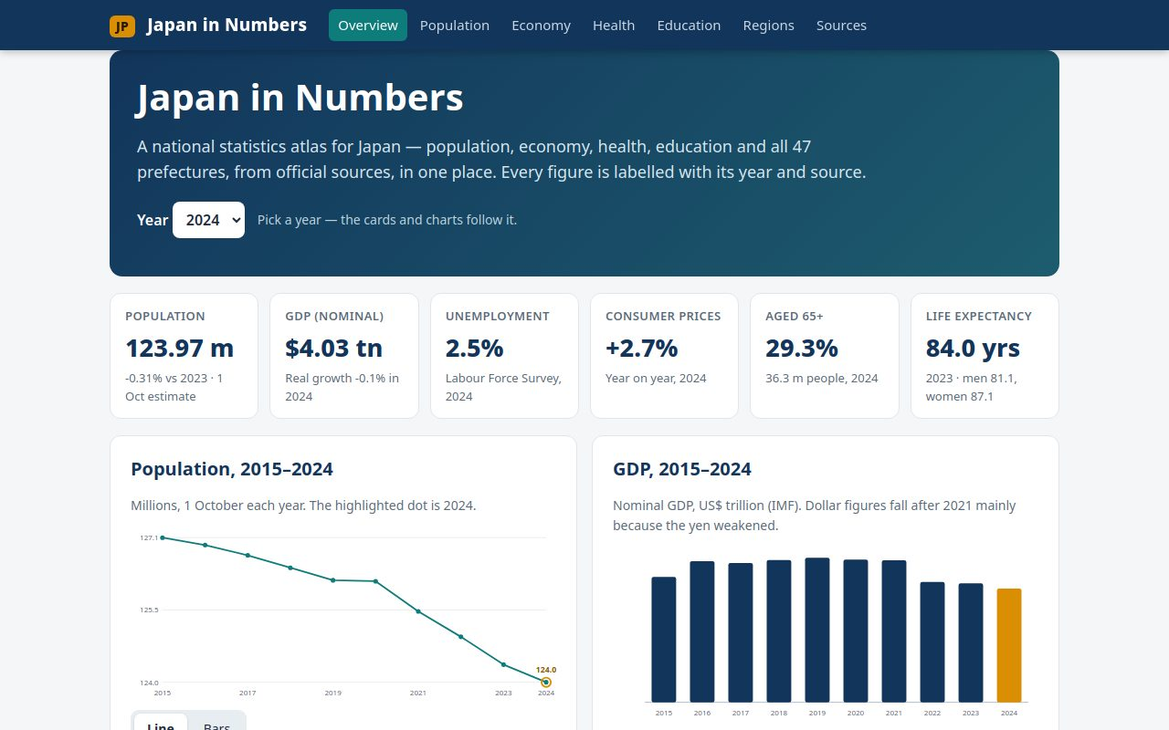
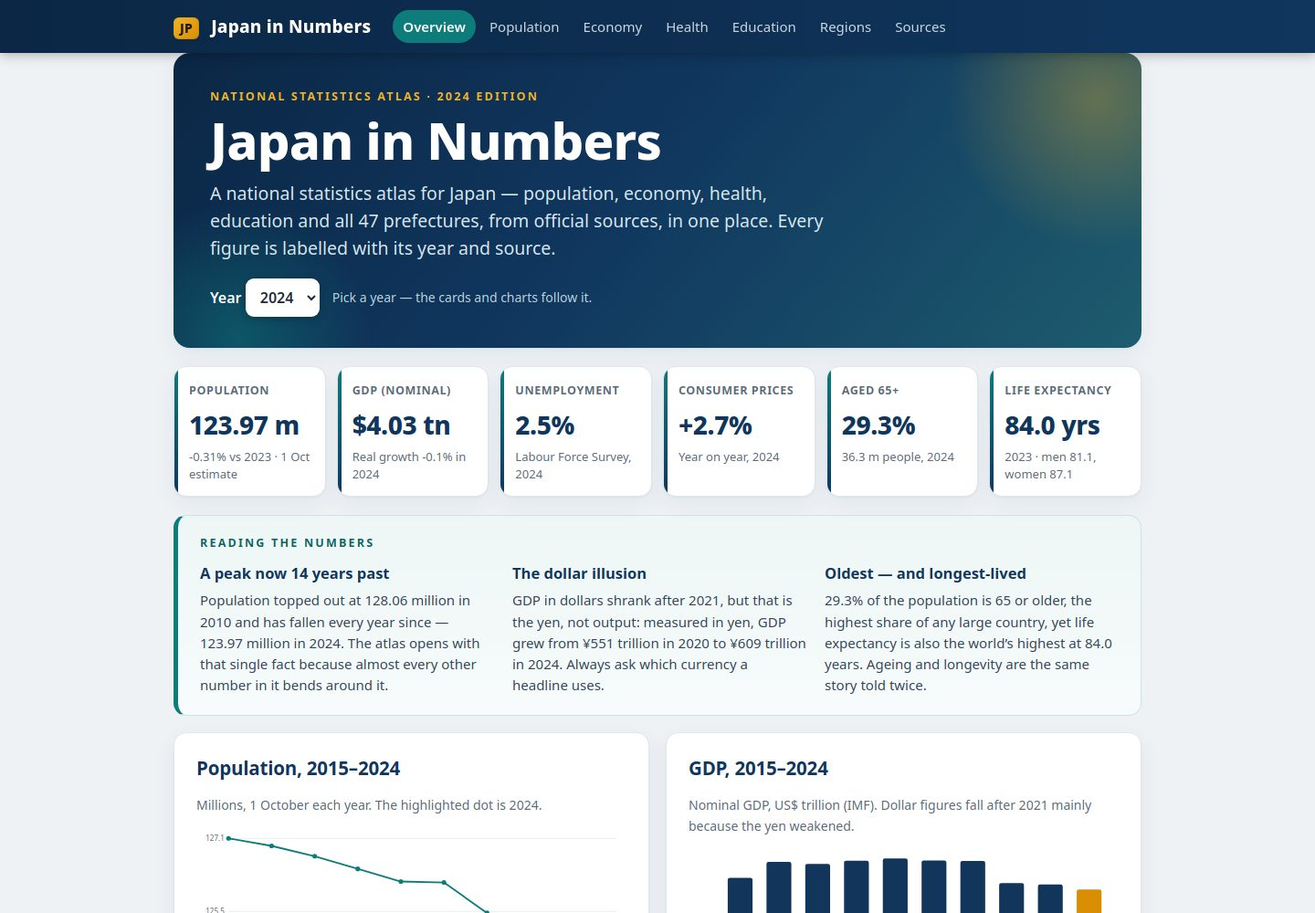
v2: design system refresh (hero, typography, KPI cards) and 'Reading the numbers' insight blocks on every stats page; screenshots retaken

diff --git a/app/views.js b/app/views.js
@@ -6,6 +6,14 @@ const esc = (s) => String(s).replace(/[&<>"]/g, (c) => `&#${c.charCodeAt(0)};`);
 const at = (arr, y) => arr.find((d) => d.y === y);
 const fmt = (n, d = 2) => n.toLocaleString('en-US', { minimumFractionDigits: d, maximumFractionDigits: d });
 
+// The "reading the numbers" block: every chart page pairs its figures with a
+// short commentary, so a visitor leaves knowing what the data means, not just
+// what it says. Items are {h: headline, p: text}; every number in them comes
+// from the same tables the page charts.
+export function insightBox(items) {
+  return `<section class="insight"><span class="kicker">Reading the numbers</span><div class="insight-cols">${items.map((i) => `<div class="insight-item"><h3>${esc(i.h)}</h3><p>${i.p}</p></div>`).join('')}</div></section>`;
+}
+
 export function kpiCards(year) {
   const pop = at(POPULATION, year), gdp = at(GDP_NOMINAL, year);
   const un = at(UNEMPLOYMENT, year), cpi = at(CPI, year);
@@ -29,10 +37,15 @@ export function yearPicker(year) {
 export function overview(s) {
   const top = [...PREFECTURES].sort((a, b) => b.pop - a.pop).slice(0, 8);
   const rows = top.map((p, i) => `<tr><td>${i + 1}</td><td><a href="#/regions?pref=${encodeURIComponent(p.name)}">${esc(p.name)}</a></td><td class="num">${fmt(p.pop)}</td><td class="num">${Math.round(p.pop / p.area * 1000).toLocaleString()}</td></tr>`).join('');
-  return `<section class="hero"><h1>Japan in Numbers</h1>
+  return `<section class="hero"><span class="kicker">National statistics atlas · 2024 edition</span><h1>Japan in Numbers</h1>
   <p class="lede">A national statistics atlas for Japan — population, economy, health, education and all 47 prefectures, from official sources, in one place. Every figure is labelled with its year and source.</p>
   <div class="hero-ctrl">${yearPicker(s.year)}<span class="hint">Pick a year — the cards and charts follow it.</span></div></section>
   ${kpiCards(s.year)}
+  ${insightBox([
+    { h: 'A peak now 14 years past', p: 'Population topped out at 128.06 million in 2010 and has fallen every year since — 123.97 million in 2024. The atlas opens with that single fact because almost every other number in it bends around it.' },
+    { h: 'The dollar illusion', p: 'GDP in dollars shrank after 2021, but that is the yen, not output: measured in yen, GDP grew from ¥551 trillion in 2020 to ¥609 trillion in 2024. Always ask which currency a headline uses.' },
+    { h: 'Oldest — and longest-lived', p: '29.3% of the population is 65 or older, the highest share of any large country, yet life expectancy is also the world\u2019s highest at 84.0 years. Ageing and longevity are the same story told twice.' },
+  ])}
   <section class="grid2">
     <article class="card"><h2>Population, 2015–2024</h2><p class="card-sub">Millions, 1 October each year. The highlighted dot is ${s.year}.</p>
       ${s.chartType === 'bars' ? barChart(POPULATION, { label: 'Population by year', highlightYear: s.year, color: NAVY }) : lineChart(POPULATION, { label: 'Population by year', highlightYear: s.year, decimals: 1 })}
@@ -56,7 +69,7 @@ export function overview(s) {
 
 export function populationPage(s) {
   const rows = POPULATION.map((d) => { const g = at(GDP_REAL_GROWTH, d.y); return `<tr><td>${d.y}</td><td class="num">${fmt(d.v)}</td><td class="num">${d.y > 2015 ? (((d.v - at(POPULATION, d.y - 1).v) / at(POPULATION, d.y - 1).v) * 100).toFixed(2) + '%' : '—'}</td></tr>`; }).join('');
-  return `<h1>Population</h1><p class="lede">123.97 million people on 1 October 2024 — down 3.12 million since 2015. Births (720,000 in 2024) are far below deaths (1.62 million), so the population falls by roughly 900,000 a year.</p>
+  return `<span class="kicker">People</span><h1>Population</h1><p class="lede">123.97 million people on 1 October 2024 — down 3.12 million since 2015. Births (720,000 in 2024) are far below deaths (1.62 million), so the population falls by roughly 900,000 a year.</p>
   <section class="grid2">
     <article class="card"><h2>Population trend, 2015–2024</h2>${lineChart(POPULATION, { label: 'Population trend', highlightYear: s.year, decimals: 1 })}<p class="note">The decline accelerated after 2020: −0.5% a year in 2021–2024, against −0.2% in 2015–2019.</p></article>
     <article class="card"><h2>Age pyramid, 2024</h2><p class="card-sub">Millions in each 5-year band. The bulge at 70–74 is the first baby-boom generation.</p>${pyramid(PYRAMID)}</article>
@@ -65,6 +78,11 @@ export function populationPage(s) {
     <article class="card"><h2>Age groups, 2024</h2>${hbarRows(AGE_GROUPS.map((g) => ({ label: `Aged ${g.label}`, value: g.pct, display: `${g.pct}% · ${g.value} m`, color: g.label === '65+' ? AMBER : TEAL })), { max: 100 })}<p class="note">Working-age people (15–64) support a growing retired population: 1.9 workers per person aged 65+ in 2024, down from 2.3 in 2015.</p></article>
     <article class="card"><h2>Year by year</h2><table class="tbl"><thead><tr><th>Year</th><th class="num">Population (m)</th><th class="num">Change</th></tr></thead><tbody>${rows}</tbody></table></article>
   </section>
+  ${insightBox([
+    { h: 'Deaths outnumber births 2 to 1', p: 'In 2024 about 720,000 babies were born and 1.62 million people died. No plausible rise in births closes a gap that wide quickly — which is why the decline steepened to about −0.5% a year after 2020.' },
+    { h: 'Fewer supporters per retiree', p: 'There were 2.3 working-age people for every person aged 65+ in 2015; by 2024 there were 1.9. Pensions, care and the tax base all key off this one ratio.' },
+    { h: 'The bulge moves up the pyramid', p: 'The wide band at ages 70–74 is the first baby-boom generation, born 1947–49. Watch it reach 75–79 by 2029: demand for care rises fastest exactly there.' },
+  ])}
   <p><a class="btn" href="#/regions">Where people live — the 47 prefectures →</a></p>`;
 }
 
@@ -76,22 +94,37 @@ export function economyPage(s) {
   if (tab === 'jobs') body = `<h2>Jobs</h2><p>Unemployment was 2.5% in 2024. The labour force is about 69 million; the employment rate for ages 15–64 is about 80%.</p>${lineChart(UNEMPLOYMENT, { label: 'Unemployment rate', fmt: 'pct', highlightYear: s.year })}<table class="tbl"><thead><tr><th>Year</th><th class="num">Unemployment</th><th class="num">Real GDP growth</th></tr></thead><tbody>${YEARS.map((y) => `<tr><td>${y}</td><td class="num">${at(UNEMPLOYMENT, y).v.toFixed(1)}%</td><td class="num">${at(GDP_REAL_GROWTH, y).v > 0 ? '+' : ''}${at(GDP_REAL_GROWTH, y).v.toFixed(1)}%</td></tr>`).join('')}</tbody></table><p class="note">Unemployment barely moved during the pandemic — job-retention subsidies kept workers on payrolls — then settled near 2.5%.</p>`;
   if (tab === 'prices') body = `<h2>Prices</h2><p>Consumer prices rose 2.7% in 2024, after 3.3% in 2023 — the fastest inflation in four decades, driven by food and energy. Before 2022, prices had been near flat for 25 years.</p>${barChart(CPI, { label: 'Consumer price inflation', fmt: 'pct', min: -1 })}<p class="note">The Bank of Japan ended negative interest rates in March 2024, its first rate rise in 17 years.</p>`;
   if (tab === 'trade') body = `<h2>Trade, 2024</h2><p>Exports ¥${TRADE_2024.exports} trillion, imports ¥${TRADE_2024.imports} trillion — a deficit of ¥${Math.abs(TRADE_2024.balance)} trillion, the fourth straight yearly deficit, as a weak yen raised import costs.</p>${hbarRows([{ label: 'Exports', value: TRADE_2024.exports, display: '¥107.9 tn', color: TEAL }, { label: 'Imports', value: TRADE_2024.imports, display: '¥113.6 tn', color: NAVY }], { max: 120 })}<h3>Main trading partners</h3><table class="tbl"><thead><tr><th>Partner</th><th class="num">Share of exports</th></tr></thead><tbody><tr><td>China</td><td class="num">17.6%</td></tr><tr><td>United States</td><td class="num">20.0%</td></tr><tr><td>South Korea</td><td class="num">7.1%</td></tr><tr><td>Taiwan</td><td class="num">6.0%</td></tr><tr><td>Hong Kong</td><td class="num">4.6%</td></tr></tbody></table><p class="note">Cars are the top export (about ¥18 tn), followed by machinery, electronics and steel.</p>`;
-  return `<h1>Economy</h1><p class="lede">The world's 4th-largest economy: $4.03 trillion of GDP in 2024, near-full employment, and inflation back after a 25-year absence.</p>
+  return `<span class="kicker">Money &amp; work</span><h1>Economy</h1><p class="lede">The world's 4th-largest economy: $4.03 trillion of GDP in 2024, near-full employment, and inflation back after a 25-year absence.</p>
   <div class="hero-ctrl">${yearPicker(s.year)}</div>${kpiCards(s.year)}
   <div class="seg tabs" role="tablist" aria-label="Economy sections">${tabs}</div>
-  <article class="card">${body}</article>`;
+  <article class="card">${body}</article>
+  ${insightBox([
+    { h: 'Read GDP in yen first', p: 'The economy looks like it shrank in dollars after 2021 and grew in yen over the same years. Both are true; only the yen series describes what people in Japan actually produced and earned.' },
+    { h: 'Jobs that bend, not break', p: 'Unemployment stayed between 2.4% and 3.1% through a pandemic and an inflation shock — firms hoard labour in a shrinking workforce, so downturns show up as shorter hours, not job losses.' },
+    { h: 'A regime change in prices', p: 'After 25 years near zero, inflation hit 3.3% in 2023 and the Bank of Japan ended negative rates in March 2024. Anyone under 40 is meeting sustained inflation for the first time.' },
+  ])}`;
 }
 
 export function healthPage() {
-  return `<h1>Health</h1><p class="lede">Japan lives longer than any other large country — 84.0 years at birth in 2023 — under universal health coverage in place since 1961.</p>
+  return `<span class="kicker">Body &amp; care</span><h1>Health</h1><p class="lede">Japan lives longer than any other large country — 84.0 years at birth in 2023 — under universal health coverage in place since 1961.</p>
   <section class="grid2">${HEALTH.map((h) => `<article class="card stat"><h3>${esc(h.label)}</h3><p class="big">${esc(h.value)}</p><p class="note">${esc(h.year)} · ${esc(h.note)}</p></article>`).join('')}</section>
-  <article class="card"><h2>Life expectancy over time</h2><p>Life expectancy rose from 68.4 years in 1960 to 84.0 in 2023 — a gain of more than 15 years in two generations.</p>${hbarRows([{ label: '1960', value: 68.4, display: '68.4 yrs' }, { label: '1980', value: 76.1, display: '76.1 yrs' }, { label: '2000', value: 81.1, display: '81.1 yrs' }, { label: '2023', value: 84.0, display: '84.0 yrs' }], { max: 90 })}<p class="note">Women live longest: 87.1 years in 2023, against 81.1 for men — a gap of six years.</p></article>`;
+  <article class="card"><h2>Life expectancy over time</h2><p>Life expectancy rose from 68.4 years in 1960 to 84.0 in 2023 — a gain of more than 15 years in two generations.</p>${hbarRows([{ label: '1960', value: 68.4, display: '68.4 yrs' }, { label: '1980', value: 76.1, display: '76.1 yrs' }, { label: '2000', value: 81.1, display: '81.1 yrs' }, { label: '2023', value: 84.0, display: '84.0 yrs' }], { max: 90 })}<p class="note">Women live longest: 87.1 years in 2023, against 81.1 for men — a gap of six years.</p></article>
+  ${insightBox([
+    { h: '15 years in two generations', p: 'A child born in 1960 could expect 68.4 years; a child born in 2023 can expect 84.0. Most of that gain came before 2000 — recent progress is slower, and the easy wins are gone.' },
+    { h: 'A six-year gap', p: 'Women outlive men by six years (87.1 vs 81.1), so the oldest old are mostly women living alone — a fact that shapes housing, care and pension design more than any headline average.' },
+    { h: 'Coverage since 1961', p: 'Universal health insurance has been in place since 1961, with free choice of doctor and fees set nationally. Long lives are built on boring systems that everyone can use.' },
+  ])}`;
 }
 
 export function educationPage() {
-  return `<h1>Education</h1><p class="lede">Nearly everyone finishes high school, 62% of young adults hold a tertiary qualification, and 15-year-olds score well above the OECD average in maths, reading and science.</p>
+  return `<span class="kicker">Learning</span><h1>Education</h1><p class="lede">Nearly everyone finishes high school, 62% of young adults hold a tertiary qualification, and 15-year-olds score well above the OECD average in maths, reading and science.</p>
   <section class="grid2">${EDUCATION.map((e) => `<article class="card stat"><h3>${esc(e.label)}</h3><p class="big">${esc(e.value)}</p><p class="note">${esc(e.year)} · ${esc(e.note)}</p></article>`).join('')}</section>
-  <article class="card"><h2>PISA 2022 — Japan vs OECD average</h2><p class="card-sub">Mean scores, 15-year-olds. Japan ranked in the top 5 in all three subjects.</p>${hbarRows(PISA_2022.flatMap((p) => [{ label: `${p.subject} — Japan`, value: p.japan, display: String(p.japan), color: NAVY }, { label: `${p.subject} — OECD avg`, value: p.oecd, display: String(p.oecd), color: '#b6c2cf' }]), { max: 600 })}<p class="note">Japan's maths lead over the OECD average is 64 points — roughly two school years of learning.</p></article>`;
+  <article class="card"><h2>PISA 2022 — Japan vs OECD average</h2><p class="card-sub">Mean scores, 15-year-olds. Japan ranked in the top 5 in all three subjects.</p>${hbarRows(PISA_2022.flatMap((p) => [{ label: `${p.subject} — Japan`, value: p.japan, display: String(p.japan), color: NAVY }, { label: `${p.subject} — OECD avg`, value: p.oecd, display: String(p.oecd), color: '#b6c2cf' }]), { max: 600 })}<p class="note">Japan's maths lead over the OECD average is 64 points — roughly two school years of learning.</p></article>
+  ${insightBox([
+    { h: 'Two school years ahead in maths', p: 'A 64-point PISA lead is not a rounding difference: on the OECD\u2019s own yardstick it is roughly two extra years of schooling by age 15 — while spending per student sits near the OECD average.' },
+    { h: 'Strong everywhere, not just at the top', p: 'Japan ranks in the top 5 in maths, reading and science alike, and its spread between strongest and weakest students is among the OECD\u2019s narrowest. The system\u2019s signature is a high floor, not just a high ceiling.' },
+    { h: 'Qualifications are the norm', p: 'With 62% of young adults holding a tertiary qualification, the labour-market question in Japan is rarely whether someone studied — it is what, and where.' },
+  ])}`;
 }
 
 export function regionsPage(s) {
@@ -108,7 +141,15 @@ export function regionsPage(s) {
   const detail = s.detail ? (() => { const p = PREFECTURES.find((x) => x.name === s.detail); if (!p) return ''; return `<article class="card detail"><h2>${esc(p.name)}</h2><p><b>Population:</b> ${fmt(p.pop)} million (${(p.pop / 123.97 * 100).toFixed(1)}% of Japan) · <b>Area:</b> ${p.area.toLocaleString()} km² · <b>Density:</b> ${Math.round(p.pop / p.area * 1000).toLocaleString()} per km²</p><p class="note">Click any prefecture name in the table to see its figures here.</p></article>`; })() : '';
   const cmp = (a, b) => { const pa = PREFECTURES.find((x) => x.name === a), pb = PREFECTURES.find((x) => x.name === b); if (!pa || !pb) return ''; return `<article class="card"><h2>Compare: ${esc(pa.name)} vs ${esc(pb.name)}</h2>${hbarRows([{ label: pa.name + ' population', value: pa.pop, display: fmt(pa.pop) + ' m', color: NAVY }, { label: pb.name + ' population', value: pb.pop, display: fmt(pb.pop) + ' m', color: TEAL }, { label: pa.name + ' density', value: pa.pop / pa.area * 1000, display: Math.round(pa.pop / pa.area * 1000).toLocaleString() + '/km²', color: NAVY }, { label: pb.name + ' density', value: pb.pop / pb.area * 1000, display: Math.round(pb.pop / pb.area * 1000).toLocaleString() + '/km²', color: TEAL }], { max: Math.max(pa.pop, pb.pop, pa.pop / pa.area * 1000, pb.pop / pb.area * 1000) })}</article>`; };
   const opts = PREFECTURES.map((p) => `<option value="${esc(p.name)}">${esc(p.name)}</option>`).join('');
-  return `<h1>Regions — all 47 prefectures</h1><p class="lede">Tokyo alone holds 14.18 million people — more than the 10 smallest prefectures combined. Search, sort, or click a name for its figures.</p>
+  const tokyo = PREFECTURES.find((p) => p.name === 'Tokyo'), hokkaido = PREFECTURES.find((p) => p.name === 'Hokkaido');
+  const totalArea = PREFECTURES.reduce((a, p) => a + p.area, 0);
+  const dens = (p) => Math.round(p.pop / p.area * 1000).toLocaleString();
+  return `<span class="kicker">Where people live</span><h1>Regions — all 47 prefectures</h1><p class="lede">Tokyo alone holds 14.18 million people — more than the 10 smallest prefectures combined. Search, sort, or click a name for its figures.</p>
+  ${insightBox([
+    { h: 'Two extremes, one country', p: `Tokyo packs about ${dens(tokyo)} people into each km²; Hokkaido fits about ${dens(hokkaido)}. The same national policies land very differently at those two densities — transport, care and housing all change character.` },
+    { h: 'A fifth of the land, a twenty-fifth of the people', p: `Hokkaido is ${(hokkaido.area / totalArea * 100).toFixed(0)}% of Japan\u2019s land area but only ${(hokkaido.pop / 123.97 * 100).toFixed(1)}% of its people. Averages for "Japan" mostly describe the crowded Pacific belt, not the whole map.` },
+    { h: 'One in nine lives in Tokyo', p: 'Tokyo\u2019s 14.18 million is 11.4% of the nation, and the three big metro areas hold roughly half of everyone. Regional decline and metro congestion are, again, the same flow seen from two ends.' },
+  ])}
   <div class="controls"><label>Search <input id="regionSearch" type="search" placeholder="Type a prefecture…" value="${esc(s.query || '')}" aria-label="Search prefectures"></label>
   <label>Sort by <select id="sortSelect"><option value="pop"${key === 'pop' ? ' selected' : ''}>Population (high → low)</option><option value="density"${key === 'density' ? ' selected' : ''}>Density (high → low)</option><option value="area"${key === 'area' ? ' selected' : ''}>Area (large → small)</option><option value="name"${key === 'name' ? ' selected' : ''}>Name (A → Z)</option></select></label></div>
   ${detail}
@@ -118,7 +159,7 @@ export function regionsPage(s) {
 }
 
 export function sourcesPage() {
-  return `<h1>Sources &amp; methods</h1><p class="lede">Every figure on this site comes from an official or international source, is labelled with its reference year, and is rounded for readability. Nothing is fetched from the internet — all data is stored in the site's own files.</p>
+  return `<span class="kicker">Trust &amp; method</span><h1>Sources &amp; methods</h1><p class="lede">Every figure on this site comes from an official or international source, is labelled with its reference year, and is rounded for readability. Nothing is fetched from the internet — all data is stored in the site's own files.</p>
   <article class="card"><table class="tbl"><thead><tr><th>Source</th><th>Used for</th></tr></thead><tbody>${SOURCES.map((x) => `<tr><td>${esc(x.name)}</td><td>${esc(x.what)}</td></tr>`).join('')}</tbody></table></article>
   <article class="card"><h2>Notes on the figures</h2><ul class="notes"><li>Population figures are 1 October estimates; 2020 is the census count.</li><li>Prefecture populations are rounded to the nearest 10,000 and marked approximate; shares use the 2024 national total of 123.97 million.</li><li>Dollar GDP moves with the yen: the 2022–2024 fall in dollar terms is mostly exchange-rate, not output — real GDP in yen kept growing.</li><li>Age-pyramid bands are rounded estimates that sum to the 2024 total.</li><li>Environment figures are the latest available year for each indicator.</li></ul></article>
   <article class="card"><h2>About this site</h2><p>Japan in Numbers is an independent statistics atlas built for exploring one country's numbers. It is not affiliated with the Statistics Bureau of Japan or any government body. Figures were compiled in November 2026; the next update follows the release of the 2025 population estimates.</p></article>`;

diff --git a/app/style.css b/app/style.css
@@ -1,55 +1,106 @@
-:root { --navy: #12355b; --teal: #0e7c7b; --amber: #d98e04; --ink: #1c2b3a; --mut: #5b6b7a; --line: #dfe6ec; --bg: #f4f6f8; --card: #fff; }
+/* Japan in Numbers — v2 design system.
+   One palette (deep navy, teal, amber on warm paper), one spacing rhythm,
+   display typography for page heads, and an "insight" component that pairs
+   every chart with a short reading of what the numbers mean. */
+:root {
+  --navy: #10365e;
+  --navy-deep: #0b2745;
+  --teal: #0e7c7b;
+  --teal-dark: #0a6665;
+  --amber: #d98e04;
+  --ink: #1c2b3a;
+  --mut: #5b6b7a;
+  --line: #dfe6ec;
+  --bg: #eef2f5;
+  --card: #fff;
+  --tint: #eef6f6;
+  --shadow: 0 1px 2px rgba(16, 54, 94, .05), 0 8px 24px rgba(16, 54, 94, .06);
+  --radius: 14px;
+}
 * { box-sizing: border-box; }
-body { margin: 0; font: 16px/1.55 system-ui, -apple-system, "Segoe UI", sans-serif; color: var(--ink); background: var(--bg); }
-.wrap { max-width: 1080px; margin: 0 auto; padding: 0 20px; }
+html { scroll-behavior: smooth; }
+body { margin: 0; font: 16px/1.6 system-ui, -apple-system, "Segoe UI", sans-serif; color: var(--ink); background: var(--bg); }
+.wrap { max-width: 1100px; margin: 0 auto; padding: 0 20px; }
 a { color: var(--teal); }
-.topbar { background: var(--navy); color: #fff; position: sticky; top: 0; z-index: 10; box-shadow: 0 2px 8px rgba(0,0,0,.25); }
-.top-in { display: flex; align-items: center; gap: 24px; flex-wrap: wrap; padding-top: 10px; padding-bottom: 10px; }
+::selection { background: #f3d489; }
+
+/* — Header — */
+.topbar { background: linear-gradient(90deg, var(--navy-deep), var(--navy)); color: #fff; position: sticky; top: 0; z-index: 10; box-shadow: 0 2px 12px rgba(0,0,0,.28); }
+.top-in { display: flex; align-items: center; gap: 24px; flex-wrap: wrap; padding-top: 11px; padding-bottom: 11px; }
 .brand { color: #fff; text-decoration: none; font-weight: 800; font-size: 19px; letter-spacing: .2px; white-space: nowrap; }
-.mark { display: inline-block; background: var(--amber); color: #231a00; border-radius: 6px; padding: 1px 7px; margin-right: 8px; font-size: 14px; }
+.mark { display: inline-block; background: linear-gradient(135deg, #f0b429, var(--amber)); color: #231a00; border-radius: 6px; padding: 1px 7px; margin-right: 8px; font-size: 14px; box-shadow: inset 0 0 0 1px rgba(0,0,0,.08); }
 nav { display: flex; gap: 4px; flex-wrap: wrap; }
-nav a { color: #c9d6e2; text-decoration: none; padding: 6px 10px; border-radius: 6px; font-size: 15px; }
-nav a:hover { color: #fff; background: rgba(255,255,255,.12); }
-nav a.active { color: #fff; background: var(--teal); }
-main { padding: 28px 20px 40px; }
-h1 { font-size: 34px; line-height: 1.15; margin: 6px 0 10px; color: var(--navy); }
-h2 { font-size: 20px; margin: 0 0 8px; color: var(--navy); }
+nav a { color: #c9d6e2; text-decoration: none; padding: 6px 11px; border-radius: 999px; font-size: 15px; transition: background .15s, color .15s; }
+nav a:hover { color: #fff; background: rgba(255,255,255,.14); }
+nav a.active { color: #fff; background: var(--teal); font-weight: 600; }
+
+/* — Type & page heads — */
+main { padding: 30px 20px 44px; }
+.kicker { display: block; font-size: 12.5px; font-weight: 700; letter-spacing: 2.2px; text-transform: uppercase; color: var(--teal); margin: 0 0 6px; }
+h1 { font-size: clamp(30px, 4.6vw, 40px); line-height: 1.12; letter-spacing: -.4px; margin: 0 0 10px; color: var(--navy); }
+h1::after { content: ""; display: block; width: 54px; height: 4px; border-radius: 2px; background: linear-gradient(90deg, var(--amber), var(--teal)); margin-top: 12px; }
+.hero h1::after { display: none; }
+h2 { font-size: 20.5px; margin: 0 0 8px; color: var(--navy); letter-spacing: -.2px; }
 h3 { font-size: 16px; margin: 18px 0 6px; color: var(--navy); }
-.lede { font-size: 18px; color: #33465a; max-width: 78ch; }
-.hero { background: linear-gradient(135deg, var(--navy), #1d5c6e); color: #fff; border-radius: 14px; padding: 28px 30px; margin-bottom: 18px; }
-.hero h1 { color: #fff; font-size: 40px; margin: 0 0 10px; }
-.hero .lede { color: #d7e5ef; }
-.hero-ctrl { display: flex; gap: 14px; align-items: center; flex-wrap: wrap; margin: 14px 0; }
+.lede { font-size: 18.5px; line-height: 1.55; color: #33465a; max-width: 76ch; margin: 0 0 18px; }
+
+/* — Hero — */
+.hero { position: relative; overflow: hidden; background: linear-gradient(130deg, var(--navy-deep) 0%, var(--navy) 46%, #1d5c6e 100%); color: #fff; border-radius: 18px; padding: 38px 40px 30px; margin-bottom: 20px; box-shadow: var(--shadow); }
+.hero::before { content: ""; position: absolute; right: -120px; top: -120px; width: 340px; height: 340px; border-radius: 50%; background: radial-gradient(circle, rgba(240,180,41,.35), rgba(240,180,41,0) 68%); }
+.hero::after { content: ""; position: absolute; left: -80px; bottom: -140px; width: 300px; height: 300px; border-radius: 50%; background: radial-gradient(circle, rgba(14,124,123,.5), rgba(14,124,123,0) 70%); }
+.hero > * { position: relative; z-index: 1; }
+.hero .kicker { color: #f0b429; }
+.hero h1 { color: #fff; font-size: clamp(38px, 6vw, 56px); font-weight: 850; letter-spacing: -.8px; margin: 0 0 12px; }
+.hero .lede { color: #d7e5ef; font-size: 19.5px; max-width: 62ch; }
+.hero-ctrl { display: flex; gap: 14px; align-items: center; flex-wrap: wrap; margin: 16px 0 4px; }
 .hint { font-size: 14px; color: var(--mut); }
 .hero .hint { color: #bcd2df; }
 .year-pick { font-weight: 600; }
-select, input[type="search"] { font: inherit; padding: 7px 10px; border: 1px solid #b9c6d2; border-radius: 8px; background: #fff; color: var(--ink); }
-.hero select { border-color: transparent; }
-.kpis { display: grid; grid-template-columns: repeat(6, 1fr); gap: 12px; margin: 0 0 18px; }
-.kpi { background: var(--card); border: 1px solid var(--line); border-radius: 12px; padding: 14px 16px; }
-.kpi-label { display: block; font-size: 13px; color: var(--mut); font-weight: 600; text-transform: uppercase; letter-spacing: .4px; }
-.kpi-value { display: block; font-size: 27px; font-weight: 800; color: var(--navy); margin: 4px 0 2px; }
-.kpi-sub { display: block; font-size: 13px; color: var(--mut); }
-.grid2 { display: grid; grid-template-columns: 1fr 1fr; gap: 16px; margin-bottom: 16px; }
-.card { background: var(--card); border: 1px solid var(--line); border-radius: 12px; padding: 20px 22px; margin-bottom: 16px; }
+select, input[type="search"] { font: inherit; padding: 8px 11px; border: 1px solid #b9c6d2; border-radius: 9px; background: #fff; color: var(--ink); }
+.hero select { border-color: transparent; box-shadow: 0 2px 8px rgba(0,0,0,.25); }
+
+/* — KPI cards — */
+.kpis { display: grid; grid-template-columns: repeat(6, 1fr); gap: 12px; margin: 0 0 20px; }
+.kpi { position: relative; background: var(--card); border: 1px solid var(--line); border-radius: var(--radius); padding: 16px 16px 14px; box-shadow: var(--shadow); overflow: hidden; }
+.kpi::before { content: ""; position: absolute; left: 0; top: 0; bottom: 0; width: 4px; background: linear-gradient(180deg, var(--teal), var(--navy)); }
+.kpi-label { display: block; font-size: 12.5px; color: var(--mut); font-weight: 700; text-transform: uppercase; letter-spacing: .6px; }
+.kpi-value { display: block; font-size: 28px; font-weight: 850; letter-spacing: -.4px; color: var(--navy); margin: 5px 0 3px; font-variant-numeric: tabular-nums; }
+.kpi-sub { display: block; font-size: 13px; color: var(--mut); line-height: 1.45; }
+
+/* — Cards & layout — */
+.grid2 { display: grid; grid-template-columns: 1fr 1fr; gap: 18px; margin-bottom: 18px; }
+.card { background: var(--card); border: 1px solid var(--line); border-radius: var(--radius); padding: 22px 24px; margin-bottom: 18px; box-shadow: var(--shadow); }
 .card-sub, .note { font-size: 14px; color: var(--mut); }
 .card svg { width: 100%; height: auto; display: block; }
-.seg { display: inline-flex; gap: 4px; background: #e8edf1; padding: 4px; border-radius: 9px; margin-top: 10px; }
+.seg { display: inline-flex; gap: 4px; background: #e8edf1; padding: 4px; border-radius: 10px; margin-top: 10px; }
 .seg button { border: 0; background: transparent; font: inherit; font-size: 14px; padding: 6px 14px; border-radius: 7px; cursor: pointer; color: var(--ink); }
 .seg button.on { background: #fff; font-weight: 700; box-shadow: 0 1px 3px rgba(0,0,0,.15); }
-.seg.tabs { margin: 0 0 16px; }
+.seg.tabs { margin: 0 0 18px; }
+
+/* — Insight: the "reading the numbers" component — */
+.insight { background: linear-gradient(180deg, var(--tint), #f7fbfb); border: 1px solid #cfe3e2; border-left: 5px solid var(--teal); border-radius: var(--radius); padding: 20px 24px; margin-bottom: 18px; }
+.insight .kicker { color: var(--teal-dark); margin-bottom: 10px; }
+.insight-cols { display: grid; grid-template-columns: repeat(3, 1fr); gap: 20px; }
+.insight-item h3 { margin: 0 0 5px; font-size: 16.5px; }
+.insight-item p { margin: 0; font-size: 15px; line-height: 1.55; color: #33465a; }
+.insight-item .fig { color: var(--amber); font-weight: 800; }
+
+/* — Tables, buttons, findings — */
 .tbl { width: 100%; border-collapse: collapse; font-size: 15px; }
 .tbl th, .tbl td { text-align: left; padding: 8px 10px; border-bottom: 1px solid var(--line); }
-.tbl th { color: var(--mut); font-size: 13px; text-transform: uppercase; letter-spacing: .4px; }
+.tbl th { color: var(--mut); font-size: 12.5px; text-transform: uppercase; letter-spacing: .5px; }
 .tbl .num { text-align: right; font-variant-numeric: tabular-nums; }
+.tbl tbody tr { transition: background .12s; }
 .tbl tr:hover td { background: #f2f7f7; }
-.btn { display: inline-block; background: var(--teal); color: #fff; text-decoration: none; font-weight: 700; padding: 9px 16px; border-radius: 9px; margin-top: 6px; }
-.btn:hover { background: #0a6665; }
-.findings { display: grid; grid-template-columns: 1fr 1fr 1fr; gap: 14px; }
+.btn { display: inline-block; background: linear-gradient(180deg, #12908f, var(--teal-dark)); color: #fff; text-decoration: none; font-weight: 700; padding: 10px 18px; border-radius: 10px; margin-top: 6px; box-shadow: 0 2px 6px rgba(14,124,123,.3); }
+.btn:hover { background: var(--teal-dark); }
+.findings { display: grid; grid-template-columns: 1fr 1fr 1fr; gap: 16px; }
 .finding { border-left: 4px solid var(--amber); padding: 2px 0 2px 14px; }
 .finding h3 { margin: 0 0 4px; font-size: 16px; }
 .finding p { margin: 0; font-size: 15px; color: #33465a; }
 .src-line { font-size: 14px; color: var(--mut); }
+
+/* — Charts' companions — */
 .donut-wrap { display: flex; gap: 18px; align-items: center; flex-wrap: wrap; }
 .donut-wrap svg { max-width: 230px; flex: 0 0 230px; }
 .legend { display: flex; flex-direction: column; gap: 8px; font-size: 15px; }
@@ -58,7 +109,7 @@ select, input[type="search"] { font: inherit; padding: 7px 10px; border: 1px sol
 .hbar-track { background: #e8edf1; border-radius: 6px; height: 18px; overflow: hidden; }
 .hbar-fill { display: block; height: 100%; border-radius: 6px; }
 .hbar-val { text-align: right; font-weight: 700; font-variant-numeric: tabular-nums; }
-.stat .big, .statline .big { font-size: 30px; font-weight: 800; color: var(--navy); margin: 4px 0; }
+.stat .big, .statline .big { font-size: 31px; font-weight: 850; letter-spacing: -.3px; color: var(--navy); margin: 4px 0; font-variant-numeric: tabular-nums; }
 .statline { border-top: 1px solid var(--line); padding-top: 10px; }
 .controls { display: flex; gap: 16px; flex-wrap: wrap; align-items: end; margin: 12px 0 16px; }
 .controls label { font-weight: 600; font-size: 14.5px; display: flex; flex-direction: column; gap: 5px; }
@@ -67,15 +118,18 @@ select, input[type="search"] { font: inherit; padding: 7px 10px; border: 1px sol
 .detail { border-left: 5px solid var(--amber); }
 .notes li { margin-bottom: 8px; }
 .foot { border-top: 1px solid var(--line); padding: 18px 20px 34px; font-size: 14px; color: var(--mut); }
+
+/* — Responsive — */
 @media (max-width: 900px) {
   .kpis { grid-template-columns: repeat(3, 1fr); }
-  .findings { grid-template-columns: 1fr 1fr; }
+  .findings, .insight-cols { grid-template-columns: 1fr 1fr; }
 }
 @media (max-width: 640px) {
-  h1 { font-size: 27px; } .hero h1 { font-size: 30px; }
-  .grid2, .findings { grid-template-columns: 1fr; }
+  .hero { padding: 26px 22px 22px; }
+  .grid2, .findings, .insight-cols { grid-template-columns: 1fr; }
   .kpis { grid-template-columns: repeat(2, 1fr); }
   .hbar { grid-template-columns: 120px 1fr 70px; font-size: 13px; }
-  nav a { padding: 5px 7px; font-size: 14px; }
+  nav a { padding: 5px 8px; font-size: 14px; }
   .top-in { gap: 8px; }
+  .card { padding: 18px; }
 }
